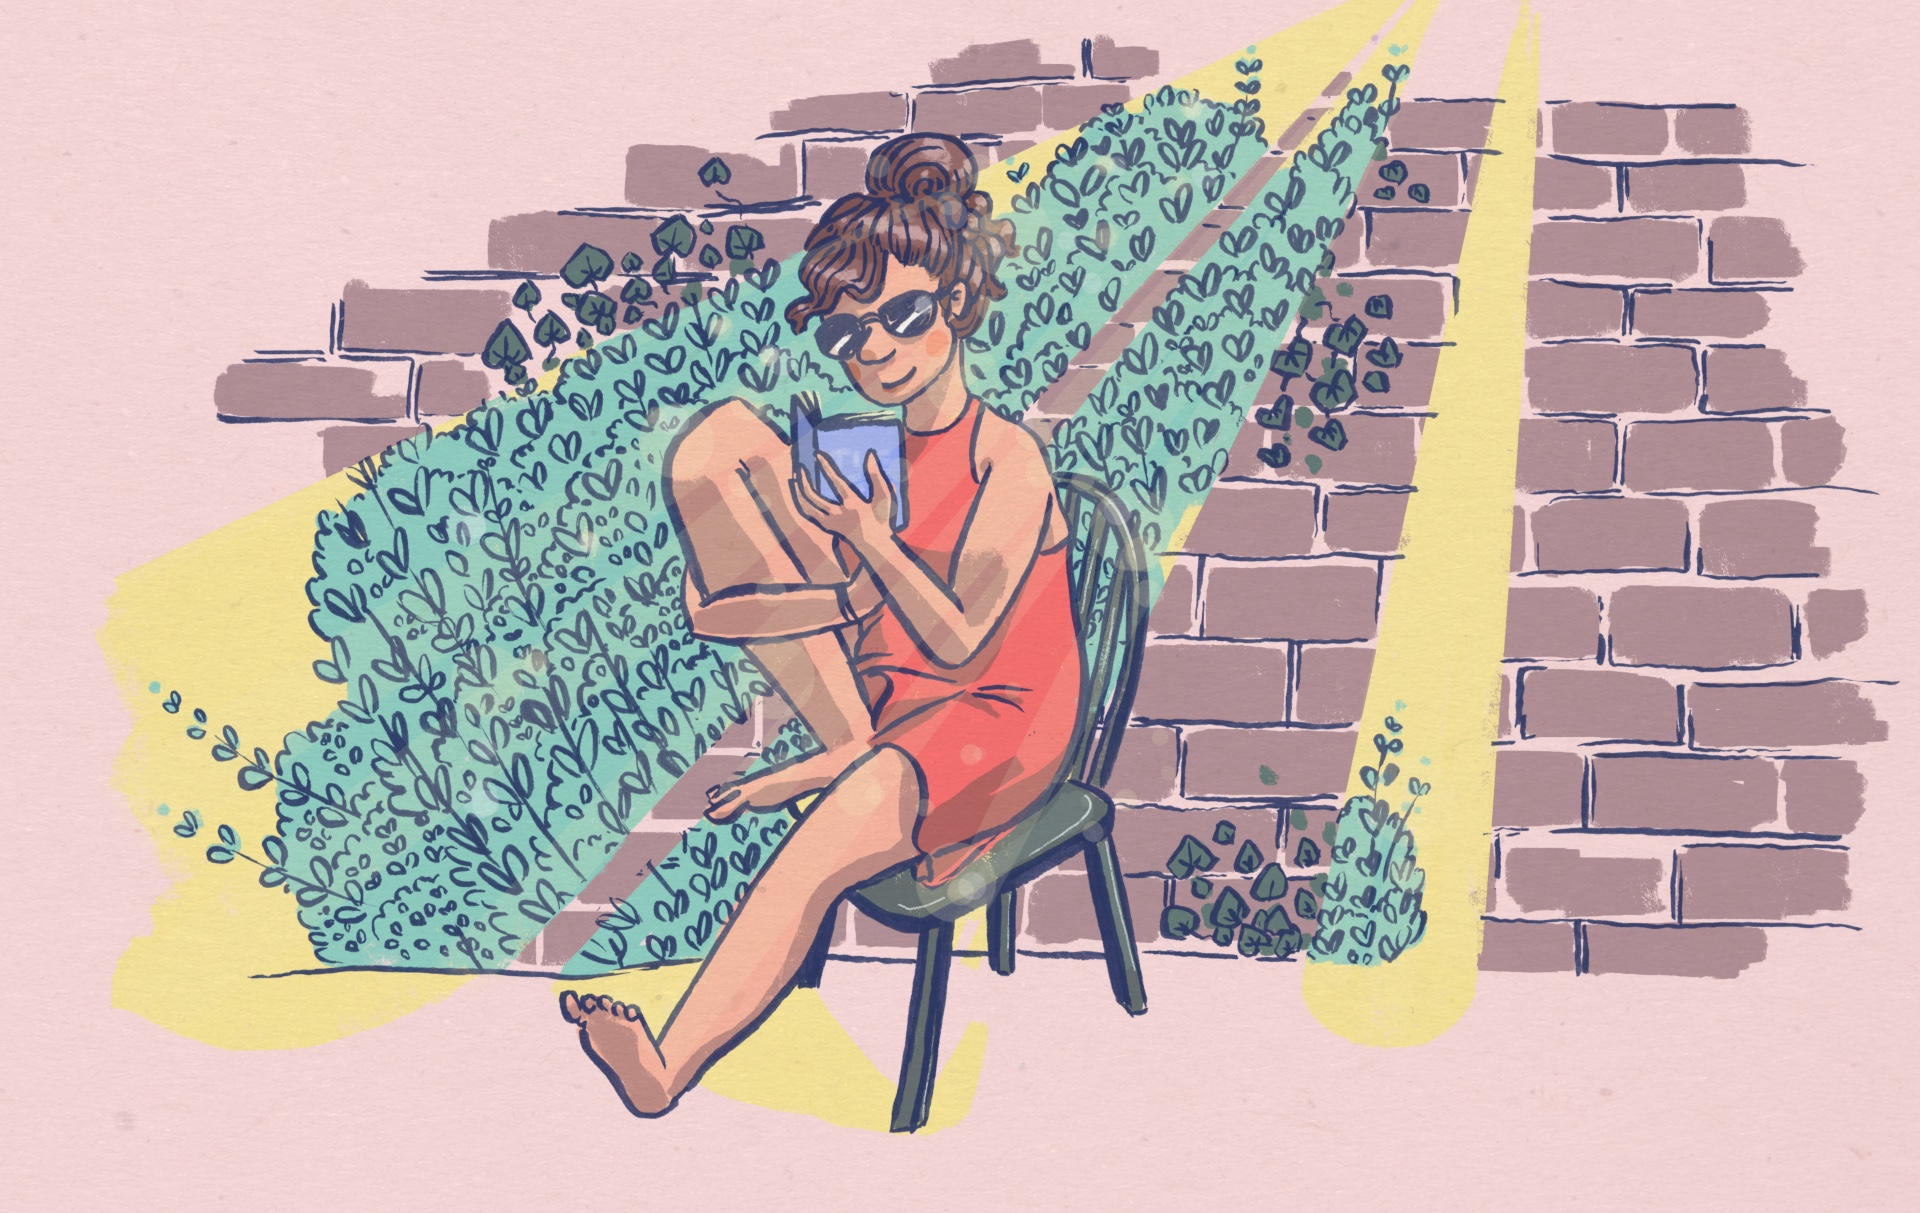
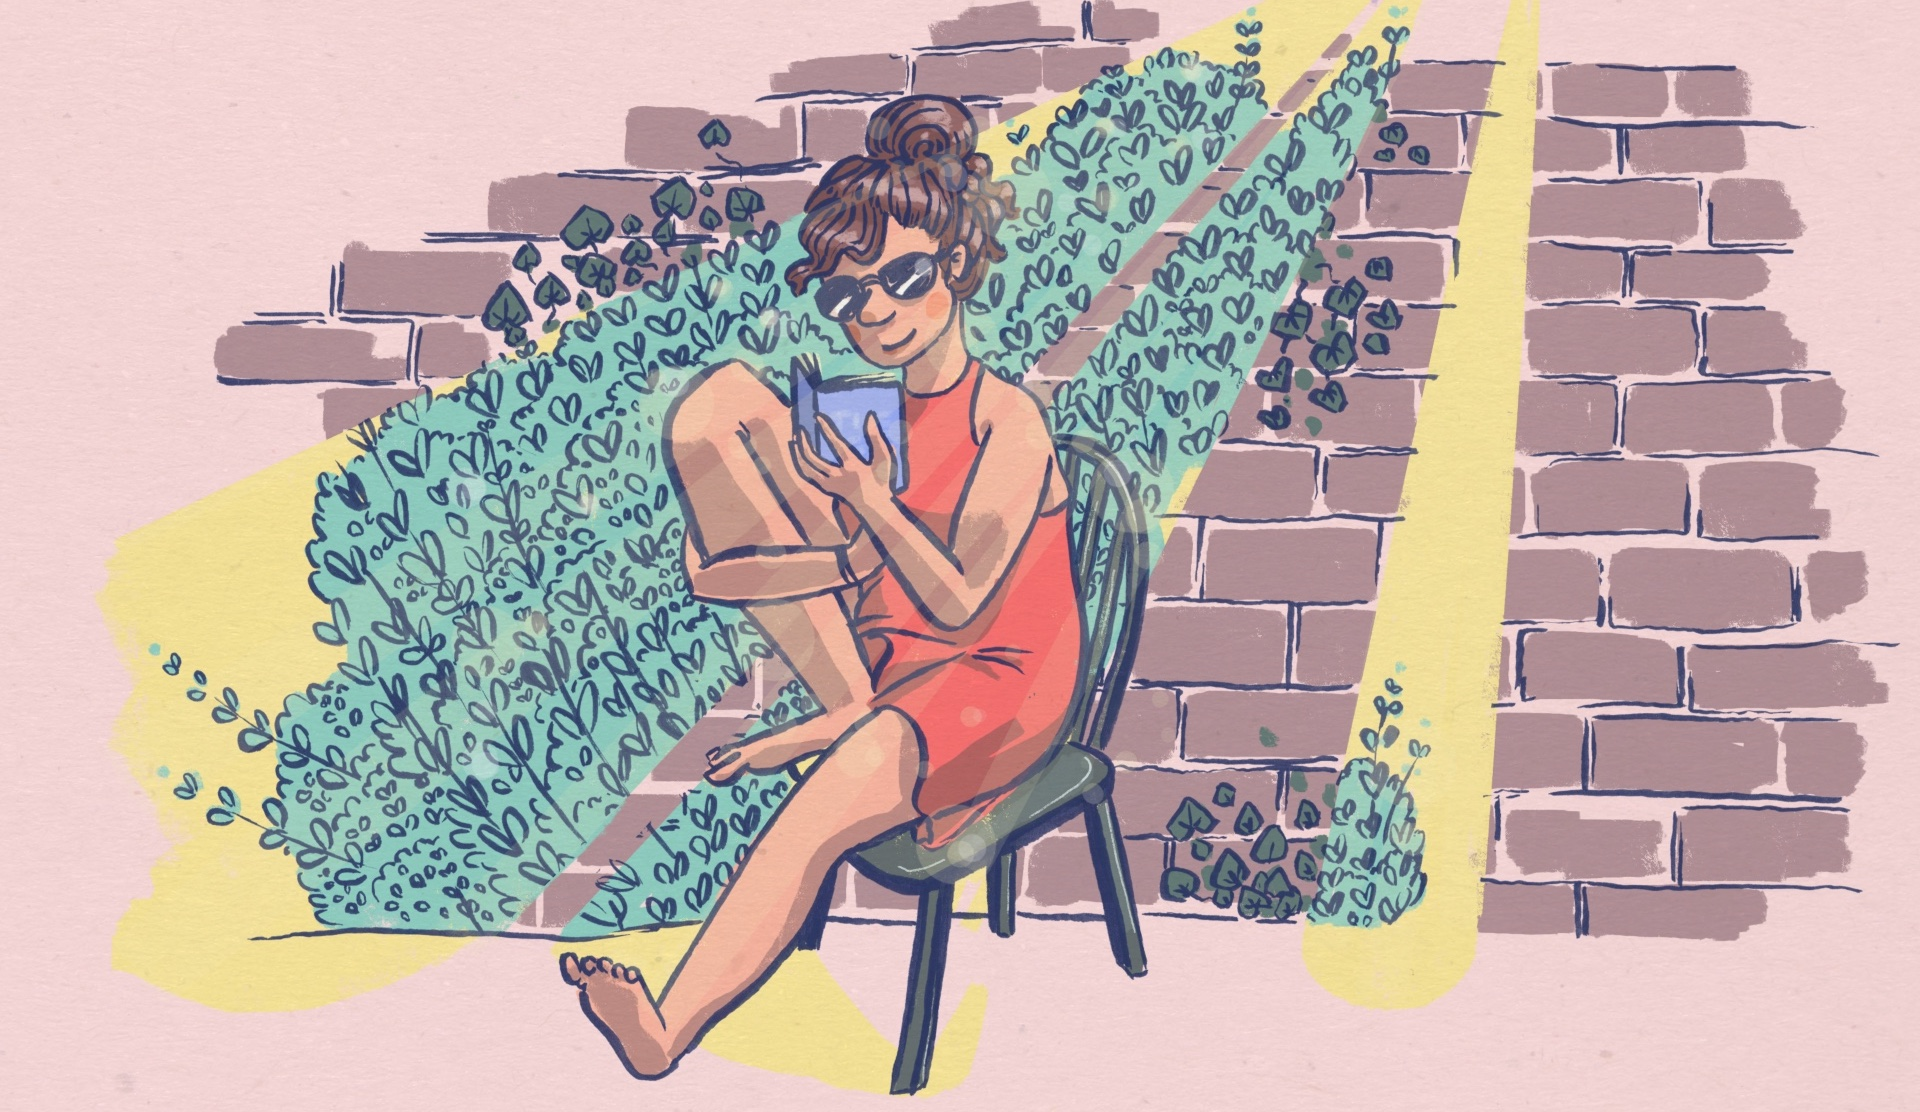
resized top image

diff --git a/src/styles/FirstSection.css b/src/styles/FirstSection.css
@@ -15,8 +15,8 @@
 }
 
 .enter-button button {
-  display: inherit;
-  position: fixed;
+  display: inline-block;
+  position: relative;
   z-index: 999;
 }
 
